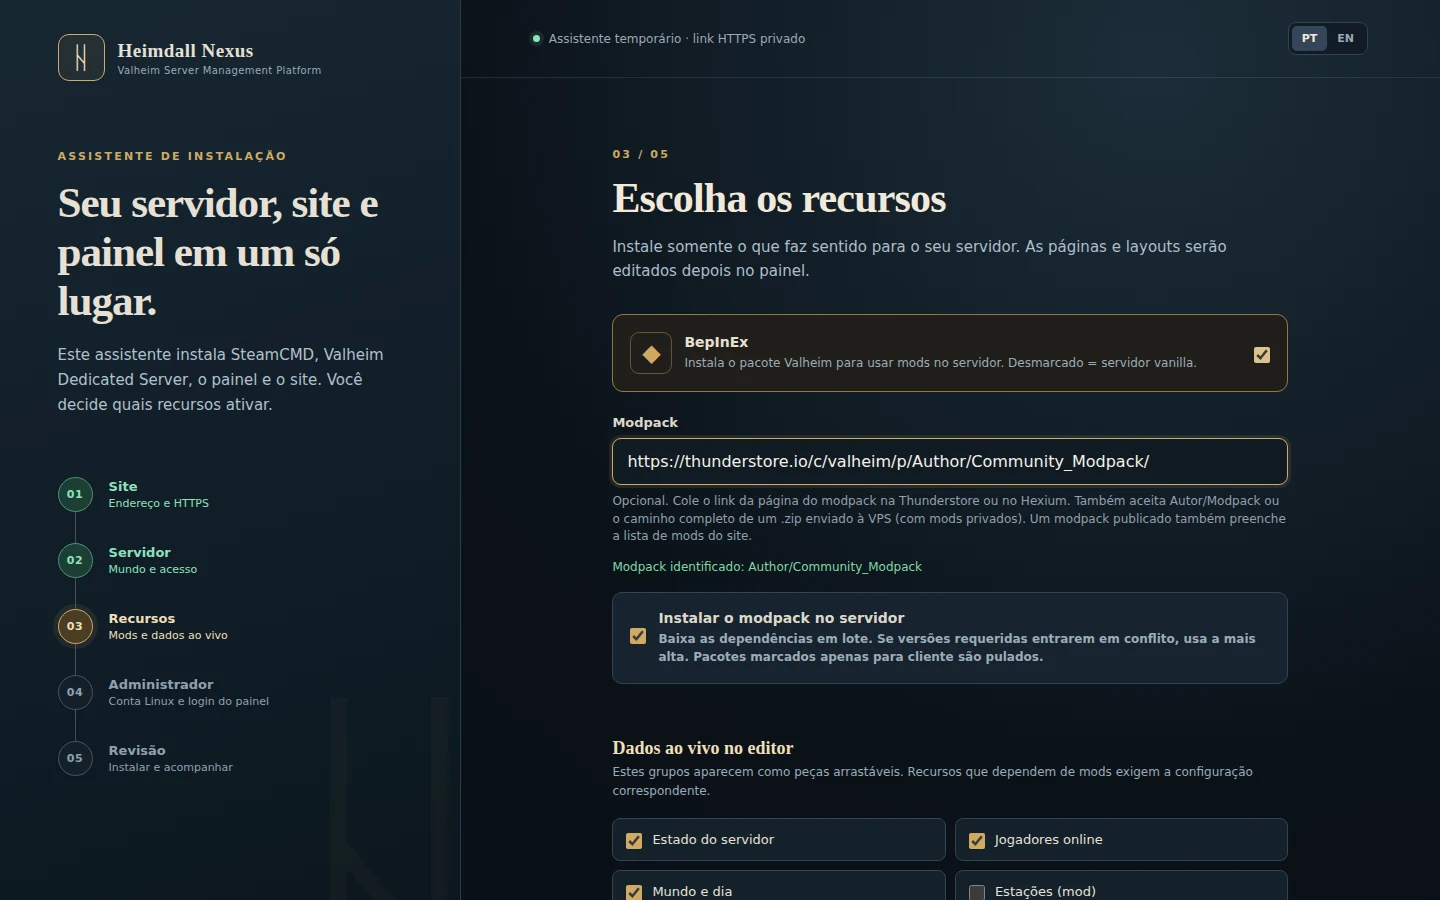
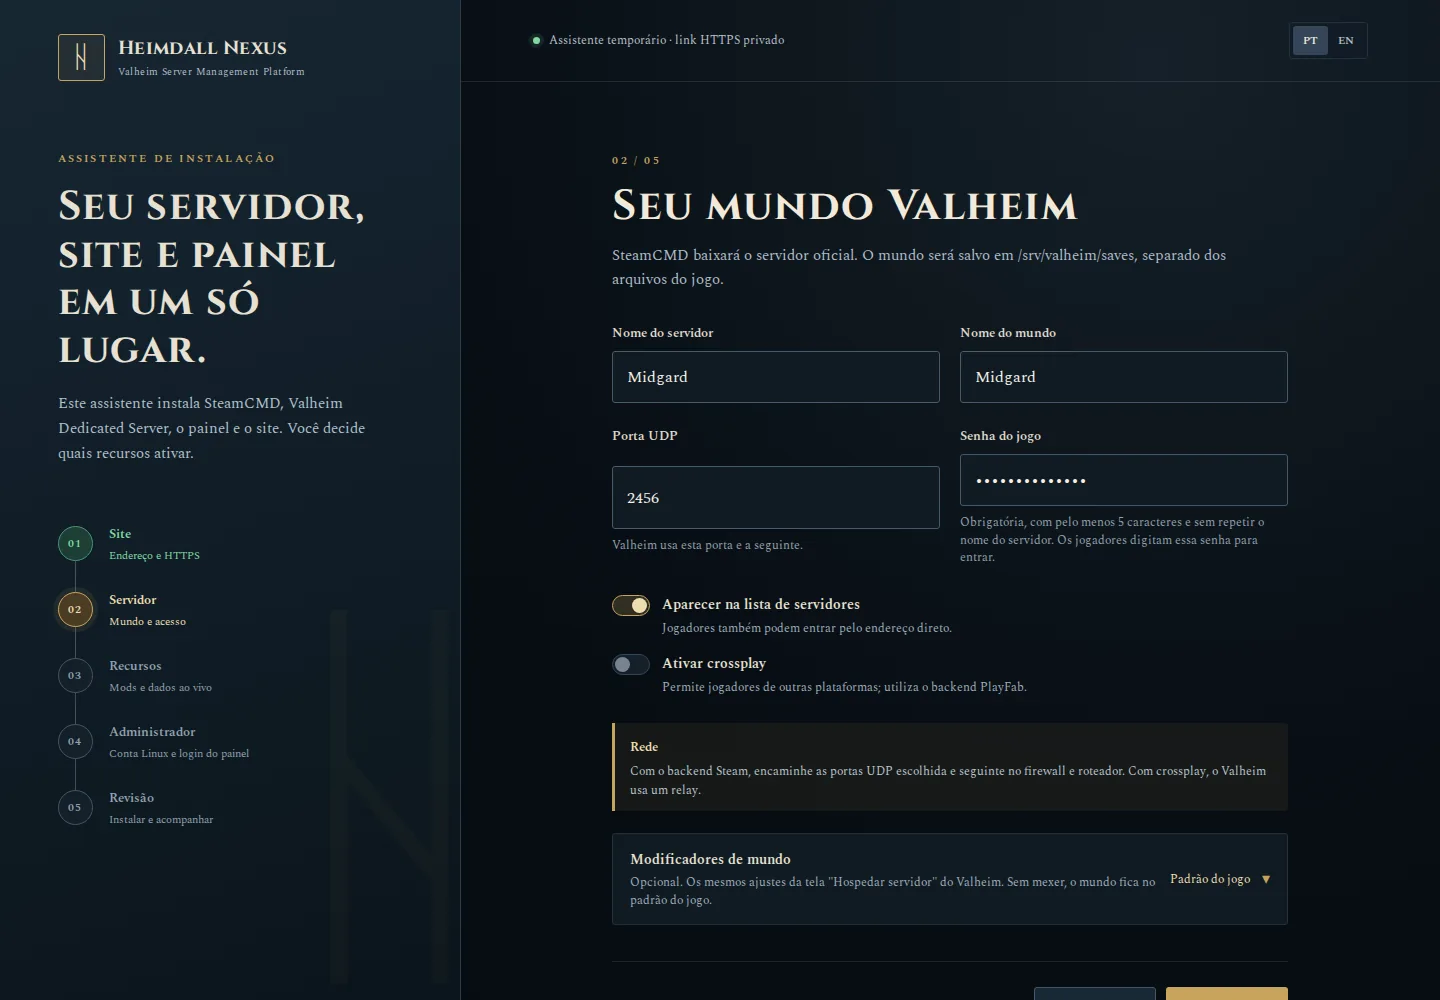
Refresh 0.2.0 documentation screenshots

diff --git a/README.md b/README.md
@@ -115,6 +115,8 @@ separately whether to share their profile, map, position and story facts.
 Provider keys stay on the server. The [Sagas guide](https://github.com/brkihel/Heimdall-Nexus/wiki/Sagas)
 explains installation, consent and the remaining preview limits.
 
+<img src=".github/assets/stories.webp" alt="Sample Viking story with the campfire background and boss battle art" width="100%">
+
 See the [0.2.0 release notes](CHANGELOG.md).
 
 ## Documentation
@@ -129,6 +131,10 @@ Everything lives in the [**wiki**](https://github.com/brkihel/Heimdall-Nexus/wik
 ## Updating
 
 From the panel: **Jarl → Sobre e atualizações → Procurar atualizações**. Review the changes, approve the exact version, and the panel updates and comes back on its own.
+
+<img src=".github/assets/updates.webp" alt="Jarl showing Heimdall Nexus 0.2.0 and the stable update channel" width="100%">
+
+Screenshots use illustrative data; they do not show a real server.
 
 From a terminal on an installed server:
 

diff --git a/README.pt-BR.md b/README.pt-BR.md
@@ -116,6 +116,8 @@ fatos para histórias. As chaves dos provedores ficam no servidor. O
 [guia Sagas](https://github.com/brkihel/Heimdall-Nexus/wiki/Sagas-PT)
 explica instalação, consentimento e os limites desta prévia.
 
+<img src=".github/assets/stories.webp" alt="História ilustrativa de um Viking, com a fogueira e arte da luta contra um chefe" width="100%">
+
 Veja as [notas da versão 0.2.0](CHANGELOG.md).
 
 ## Documentação
@@ -130,6 +132,10 @@ Tudo está na [**wiki**](https://github.com/brkihel/Heimdall-Nexus/wiki/Inicio),
 ## Atualizar
 
 Pelo painel: **Jarl → Sobre e atualizações → Procurar atualizações**. Você vê a lista de mudanças e aprova a versão exata; o painel se atualiza e volta sozinho.
+
+<img src=".github/assets/updates.webp" alt="Jarl mostrando o Heimdall Nexus 0.2.0 e o canal estável de atualização" width="100%">
+
+As capturas usam dados ilustrativos; não mostram um servidor real.
 
 Pelo terminal, num servidor já instalado:
 
